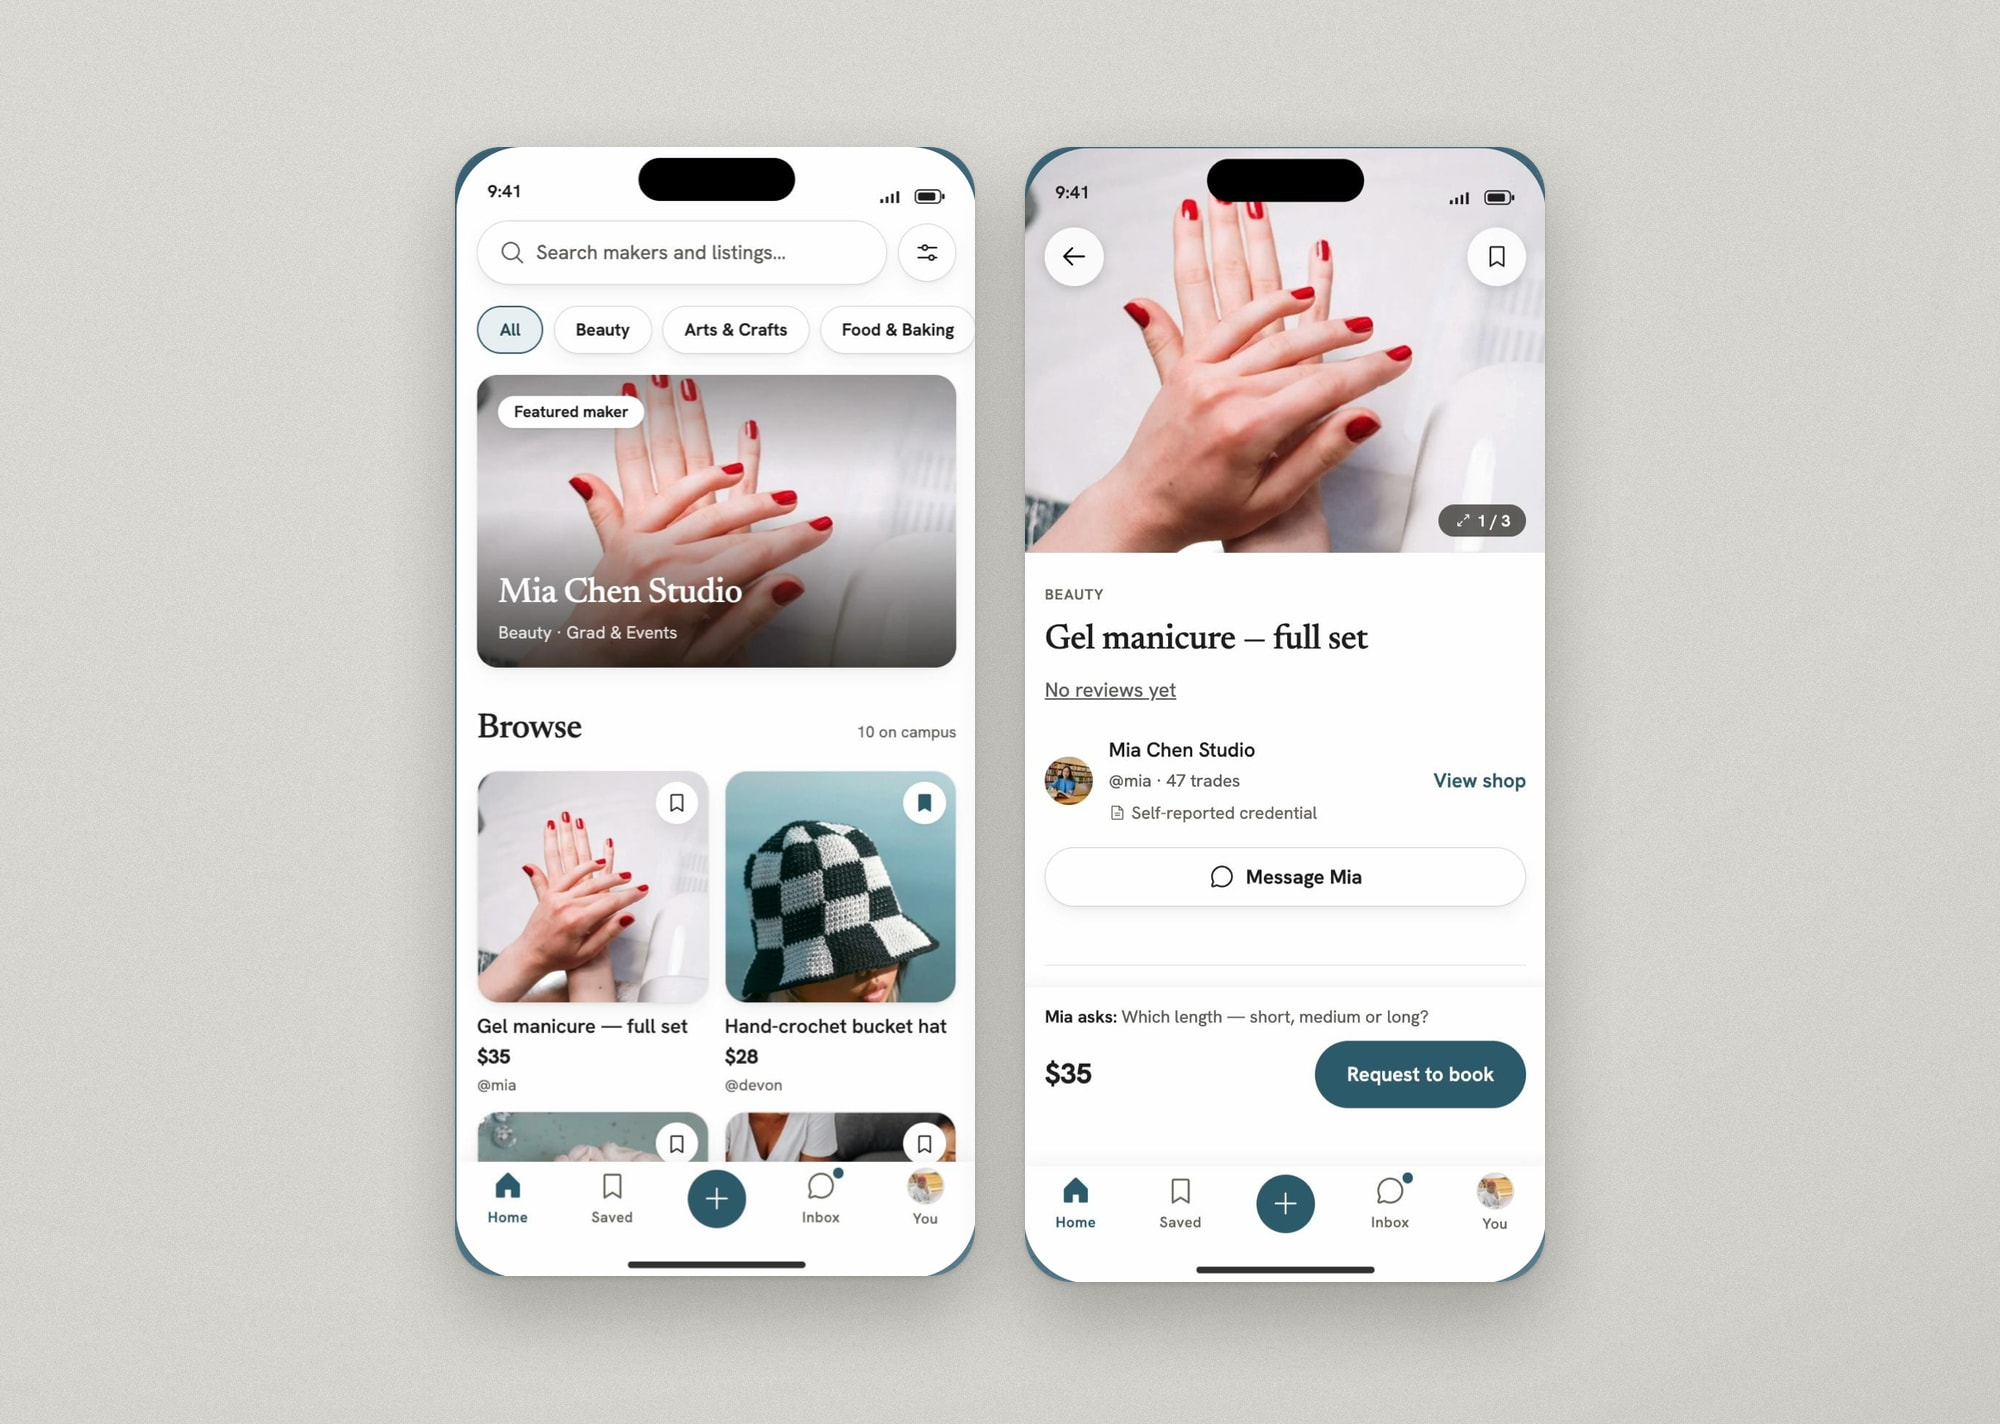
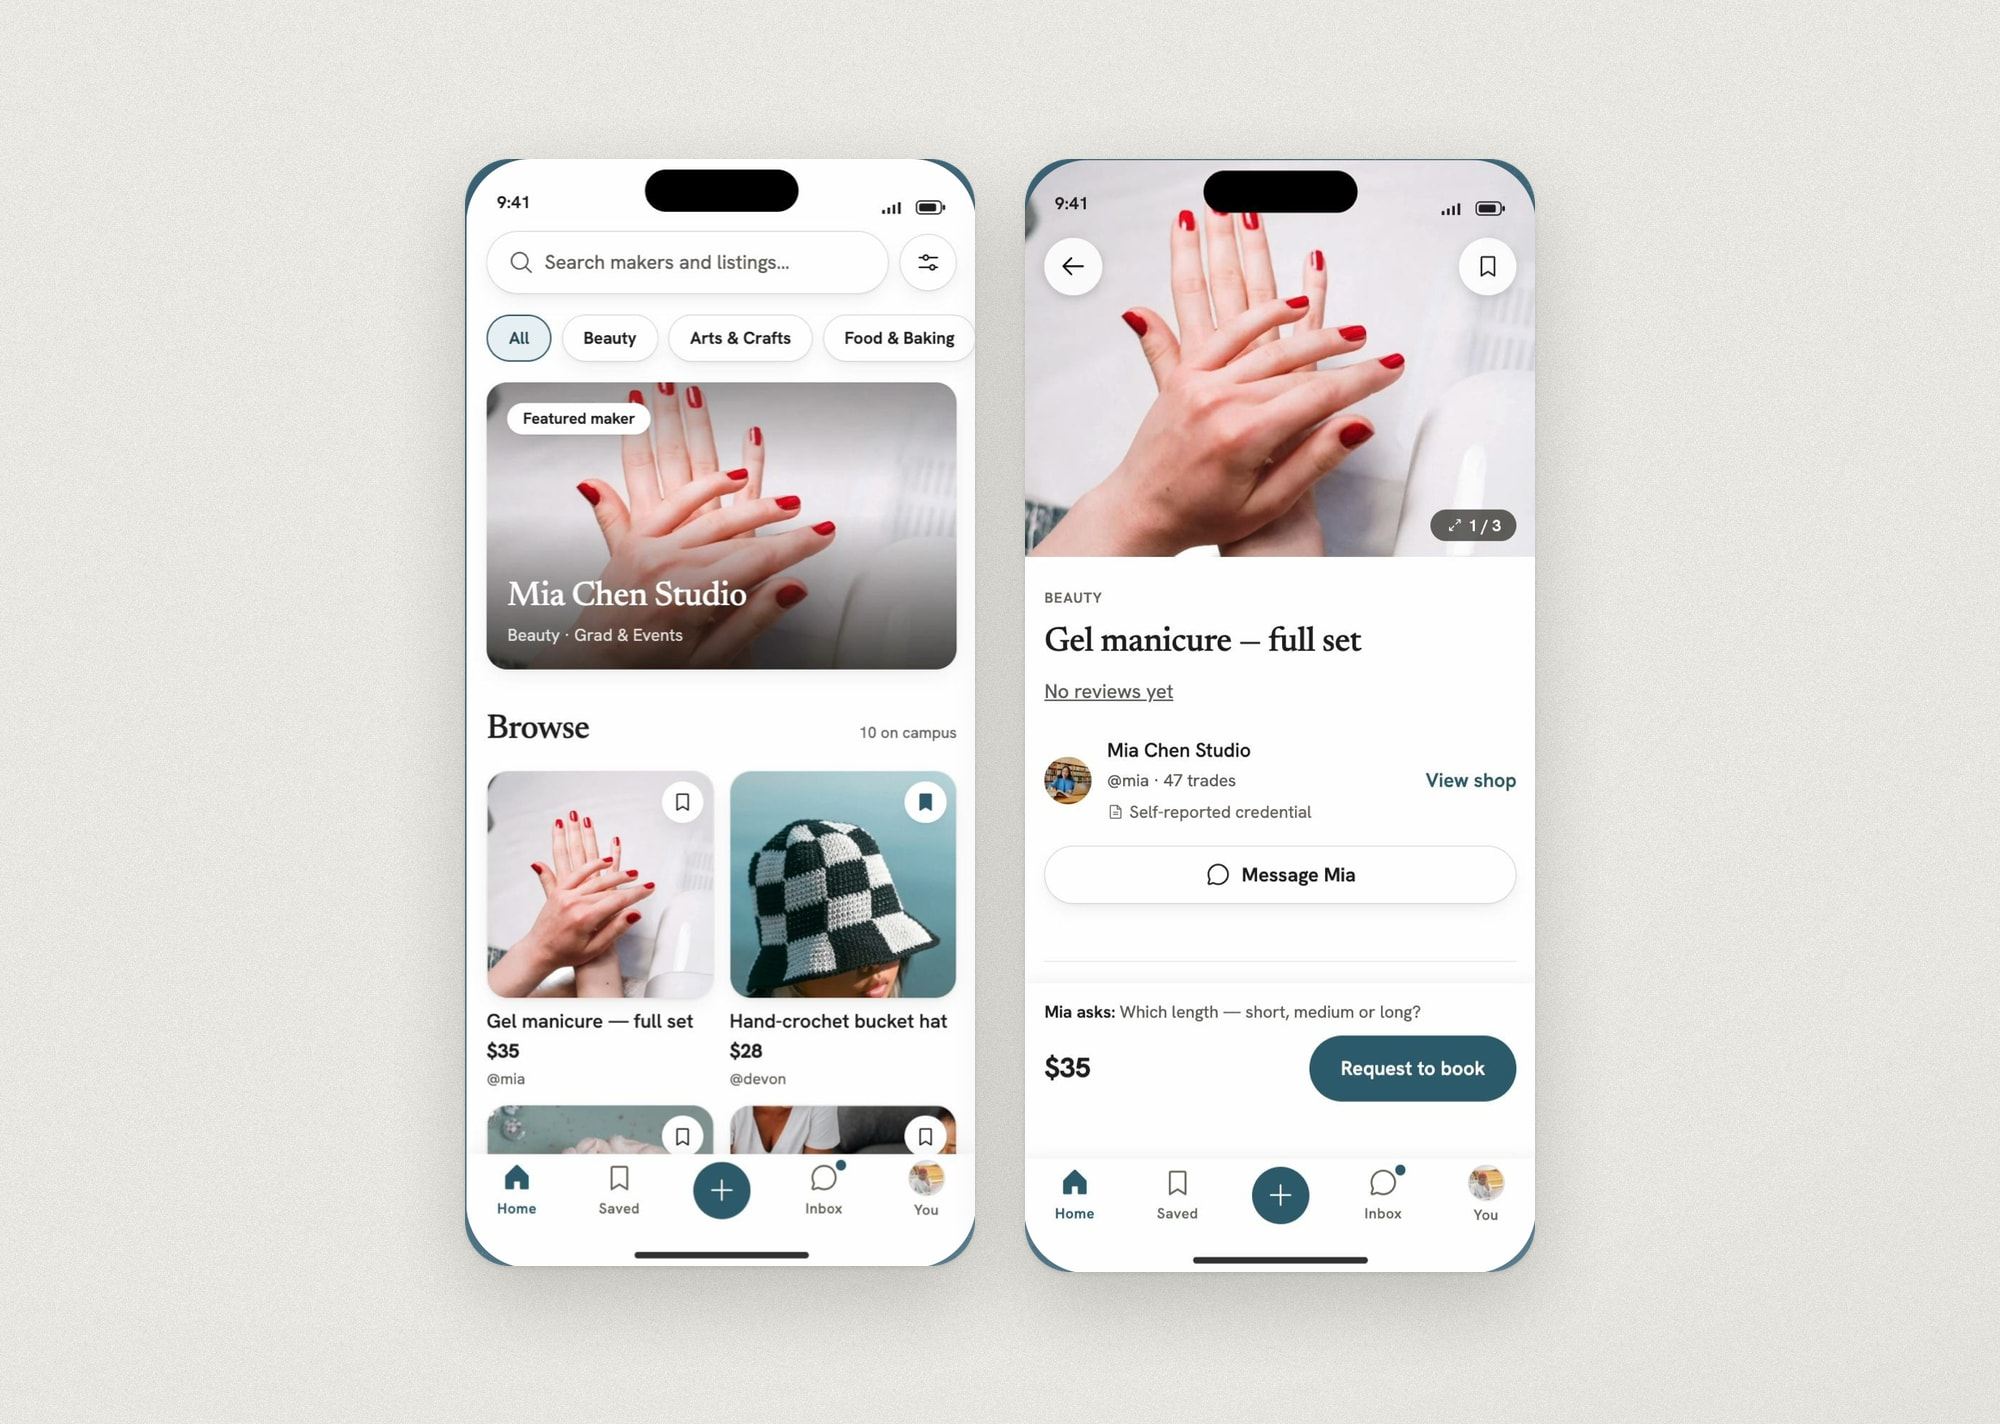
Work section, cleaner: lighter plates a shade off the page with larger screens; one caption line with the name in ink and the kind and year in grey (no uppercase tags); the short line in grey; the 2026 label removed; more room between projects on phones

diff --git a/src/styles/global.css b/src/styles/global.css
@@ -256,16 +256,17 @@ body::after { content: ""; position: fixed; top: 0; left: 0; width: 100%; height
 @media (min-width: 1024px) { .hero__statement h1 { grid-column: 8 / -1; max-width: var(--measure-note); justify-self: end; } }
 
 .work { padding-top: var(--section); padding-bottom: var(--s-9); }
-/* the work, side by side: two equal covers, each with its name and kind on one line and one short line beneath */
-.wg { row-gap: var(--s-5); align-items: start; }
-.wg__head { grid-column: 1 / -1; display: flex; justify-content: space-between; }
+/* the work, side by side: two equal covers on light plates, each with its name and kind (in grey) on one line and one
+   short grey line beneath */
+.wg { row-gap: var(--s-7); align-items: start; }
+.wg__head { grid-column: 1 / -1; margin-bottom: calc(var(--s-5) - var(--s-7)); }
 .wg__item { grid-column: 1 / -1; display: grid; gap: var(--s-2); color: var(--ink); }
 .wg__item:hover { text-decoration: none; }
-.wcard__cover { display: block; overflow: hidden; margin-bottom: var(--s-2); }
+.wcard__cover { display: block; overflow: hidden; margin-bottom: var(--s-3); }
 .wcard__cover img { display: block; width: 100%; height: auto; aspect-ratio: var(--cover-ratio); object-fit: cover; transition: transform var(--dur-slow) var(--ease); }
-.wg__line { display: flex; justify-content: space-between; align-items: baseline; gap: var(--s-4); }
-.wg__title { font-family: var(--serif); font-weight: var(--w-serif); font-size: var(--fs-nav); line-height: var(--lh-nav); }
-.wg__sum { font-family: var(--serif); font-size: var(--fs-body-s); line-height: var(--lh-body); color: var(--ink-2); max-width: 40ch; }
+.wg__line { display: flex; flex-wrap: wrap; align-items: baseline; column-gap: var(--s-2); font-family: var(--serif); font-weight: var(--w-serif); font-size: var(--fs-nav); line-height: var(--lh-nav); }
+.wg__meta { color: var(--ink-3); }
+.wg__sum { font-family: var(--serif); font-size: var(--fs-body-s); line-height: var(--lh-body); color: var(--ink-3); max-width: 40ch; }
 @media (hover: hover) {
   .wg__item:hover .wcard__cover img { transform: scale(1.02); }
   .wg__item:hover .wg__title { font-style: italic; }
